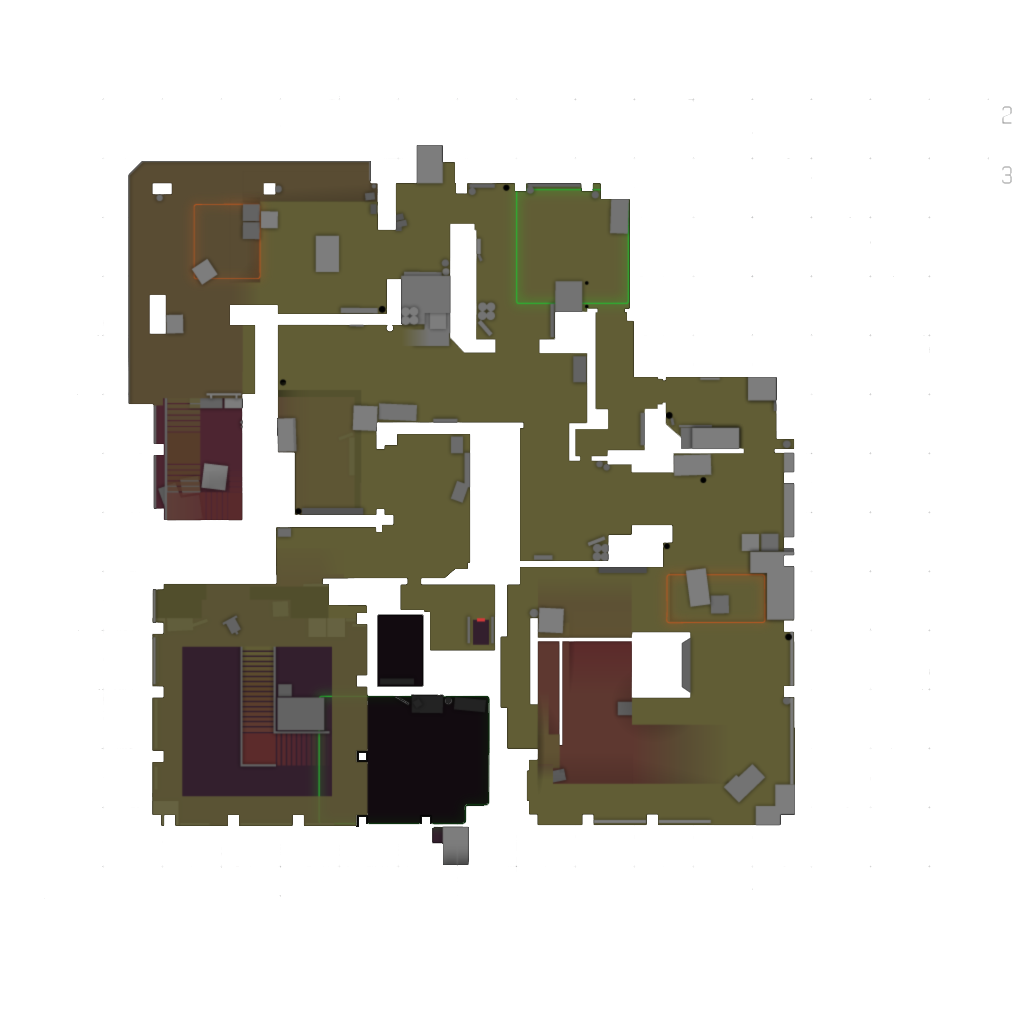
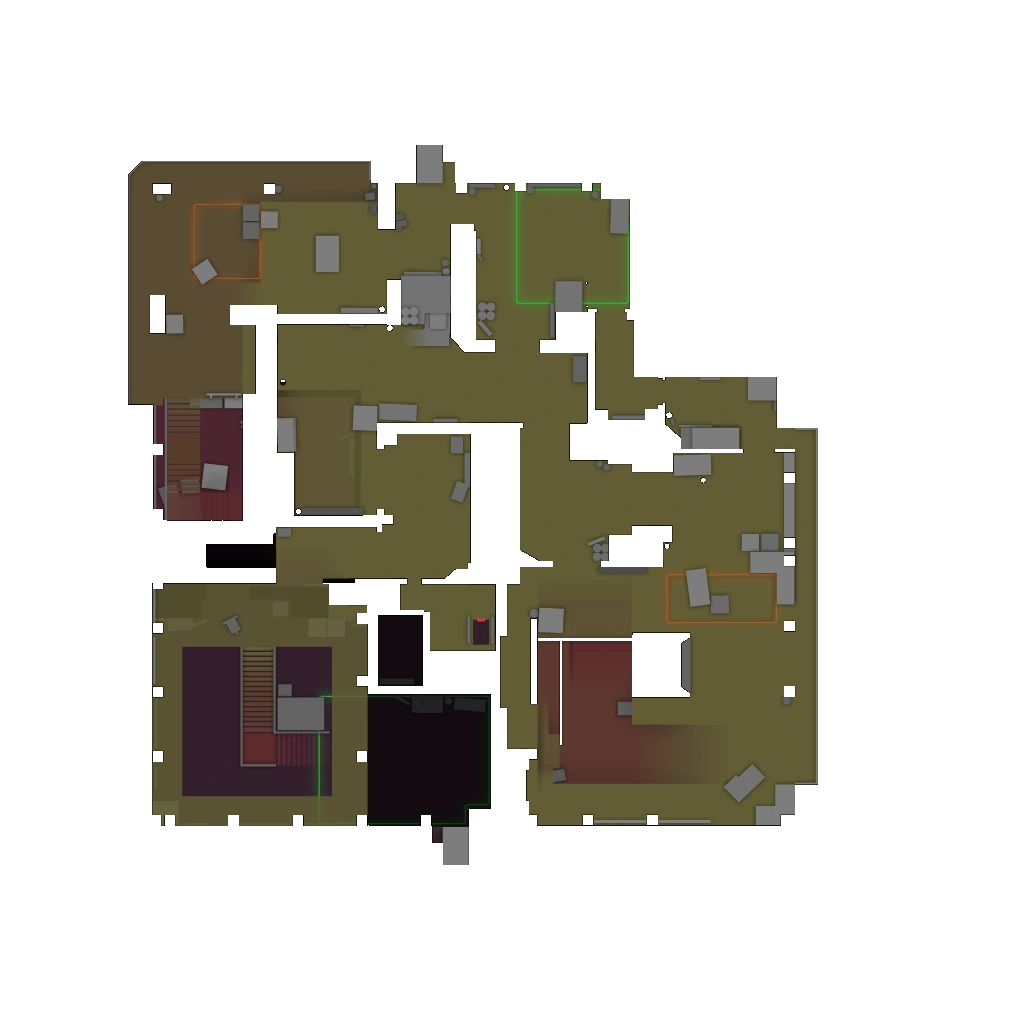
Added plot.utils functions and updated map images
Added functions in awpy.plot.utils that transform in the opposite direction (i.e. from map pixel coordinates to in-game coordinates) and added documentation indicating direction of transform.

Updated the vertigo map images to show the new layout after the map got updated.

diff --git a/awpy/plot/utils.py b/awpy/plot/utils.py
@@ -9,7 +9,7 @@ from awpy.data.map_data import MAP_DATA
 def position_transform_axis(
     map_name: str, position: float, axis: Literal["x", "y"]
 ) -> float:
-    """Transforms an X or Y-axis value.
+    """Transforms an X or Y-axis value. CS2 coordinate -> Minimap image pixel value.
 
     Args:
         map_name (str): Map to search
@@ -34,10 +34,40 @@ def position_transform_axis(
     return (start - position) / scale
 
 
+def position_revert_axis(
+    map_name: str, position: float, axis: Literal["x", "y"]
+) -> float:
+    """Reverts an X or Y-axis value. Minimap image pixel value -> CS2 coordinate.
+
+    Args:
+        map_name (str): Map to search
+        position (float): X or Y coordinate
+        axis (str): Either "x" or "y"
+
+    Returns:
+        float: Transformed position
+
+    Raises:
+        ValueError: Raises a ValueError if axis not 'x' or 'y'
+    """
+    axis = axis.lower()
+    if axis not in ["x", "y"]:
+        msg = f"'axis' has to be 'x' or 'y', not {axis}"
+        raise ValueError(msg)
+    start = MAP_DATA[map_name]["pos_" + axis]
+    scale = MAP_DATA[map_name]["scale"]
+
+    if axis == "x":
+        # return (position - start) / scale
+        return position * scale + start
+    # return (start - position) / scale
+    return start - position * scale
+
+
 def position_transform(
     map_name: str, position: tuple[float, float, float]
 ) -> tuple[float, float, float]:
-    """Transforms an single coordinate (X,Y,Z).
+    """Transforms an single coordinate (X,Y,Z). CS2 coordinates -> Minimap image pixel values.
 
     Args:
         map_name (str): Map to transform coordinates.
@@ -49,6 +79,25 @@ def position_transform(
     return (
         position_transform_axis(map_name, position[0], "x"),
         position_transform_axis(map_name, position[1], "y"),
+        position[2],
+    )
+
+
+def position_revert(
+    map_name: str, position: tuple[float, float, float]
+) -> tuple[float, float, float]:
+    """Transforms an single coordinate (X,Y,Z). Minimap image pixel values -> CS2 coordinates.
+
+    Args:
+        map_name (str): Map to transform coordinates.
+        position (tuple): (X,Y,Z) coordinates.
+
+    Returns:
+        Tuple[float, float, float]: Transformed coordinates (X,Y,Z).
+    """
+    return (
+        position_revert_axis(map_name, position[0], "x"),
+        position_revert_axis(map_name, position[1], "y"),
         position[2],
     )
 
